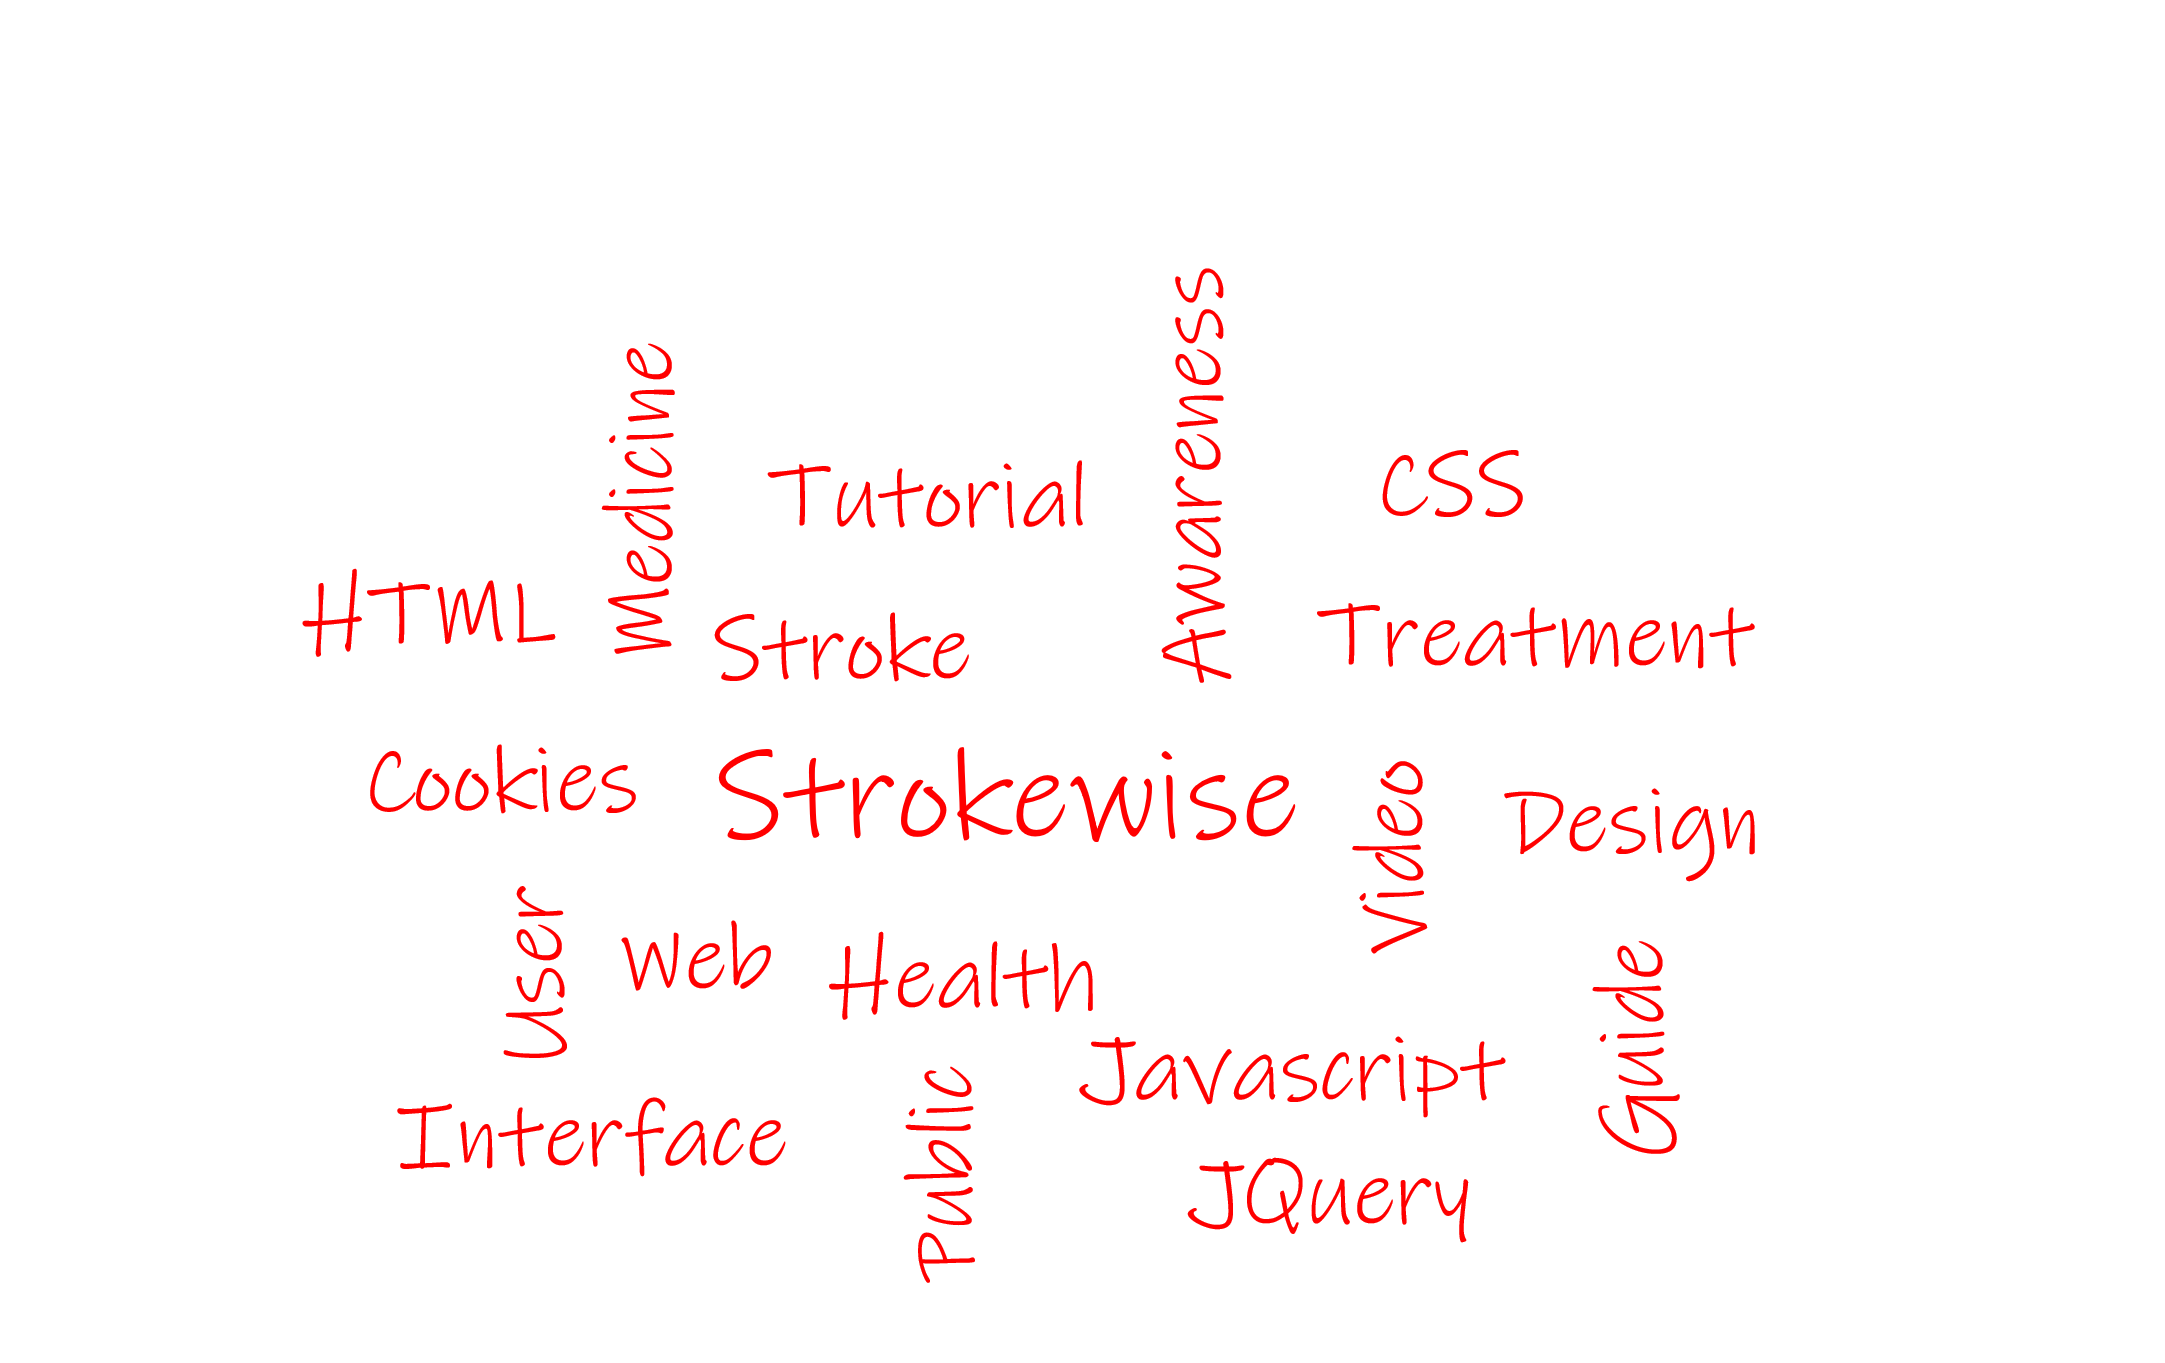
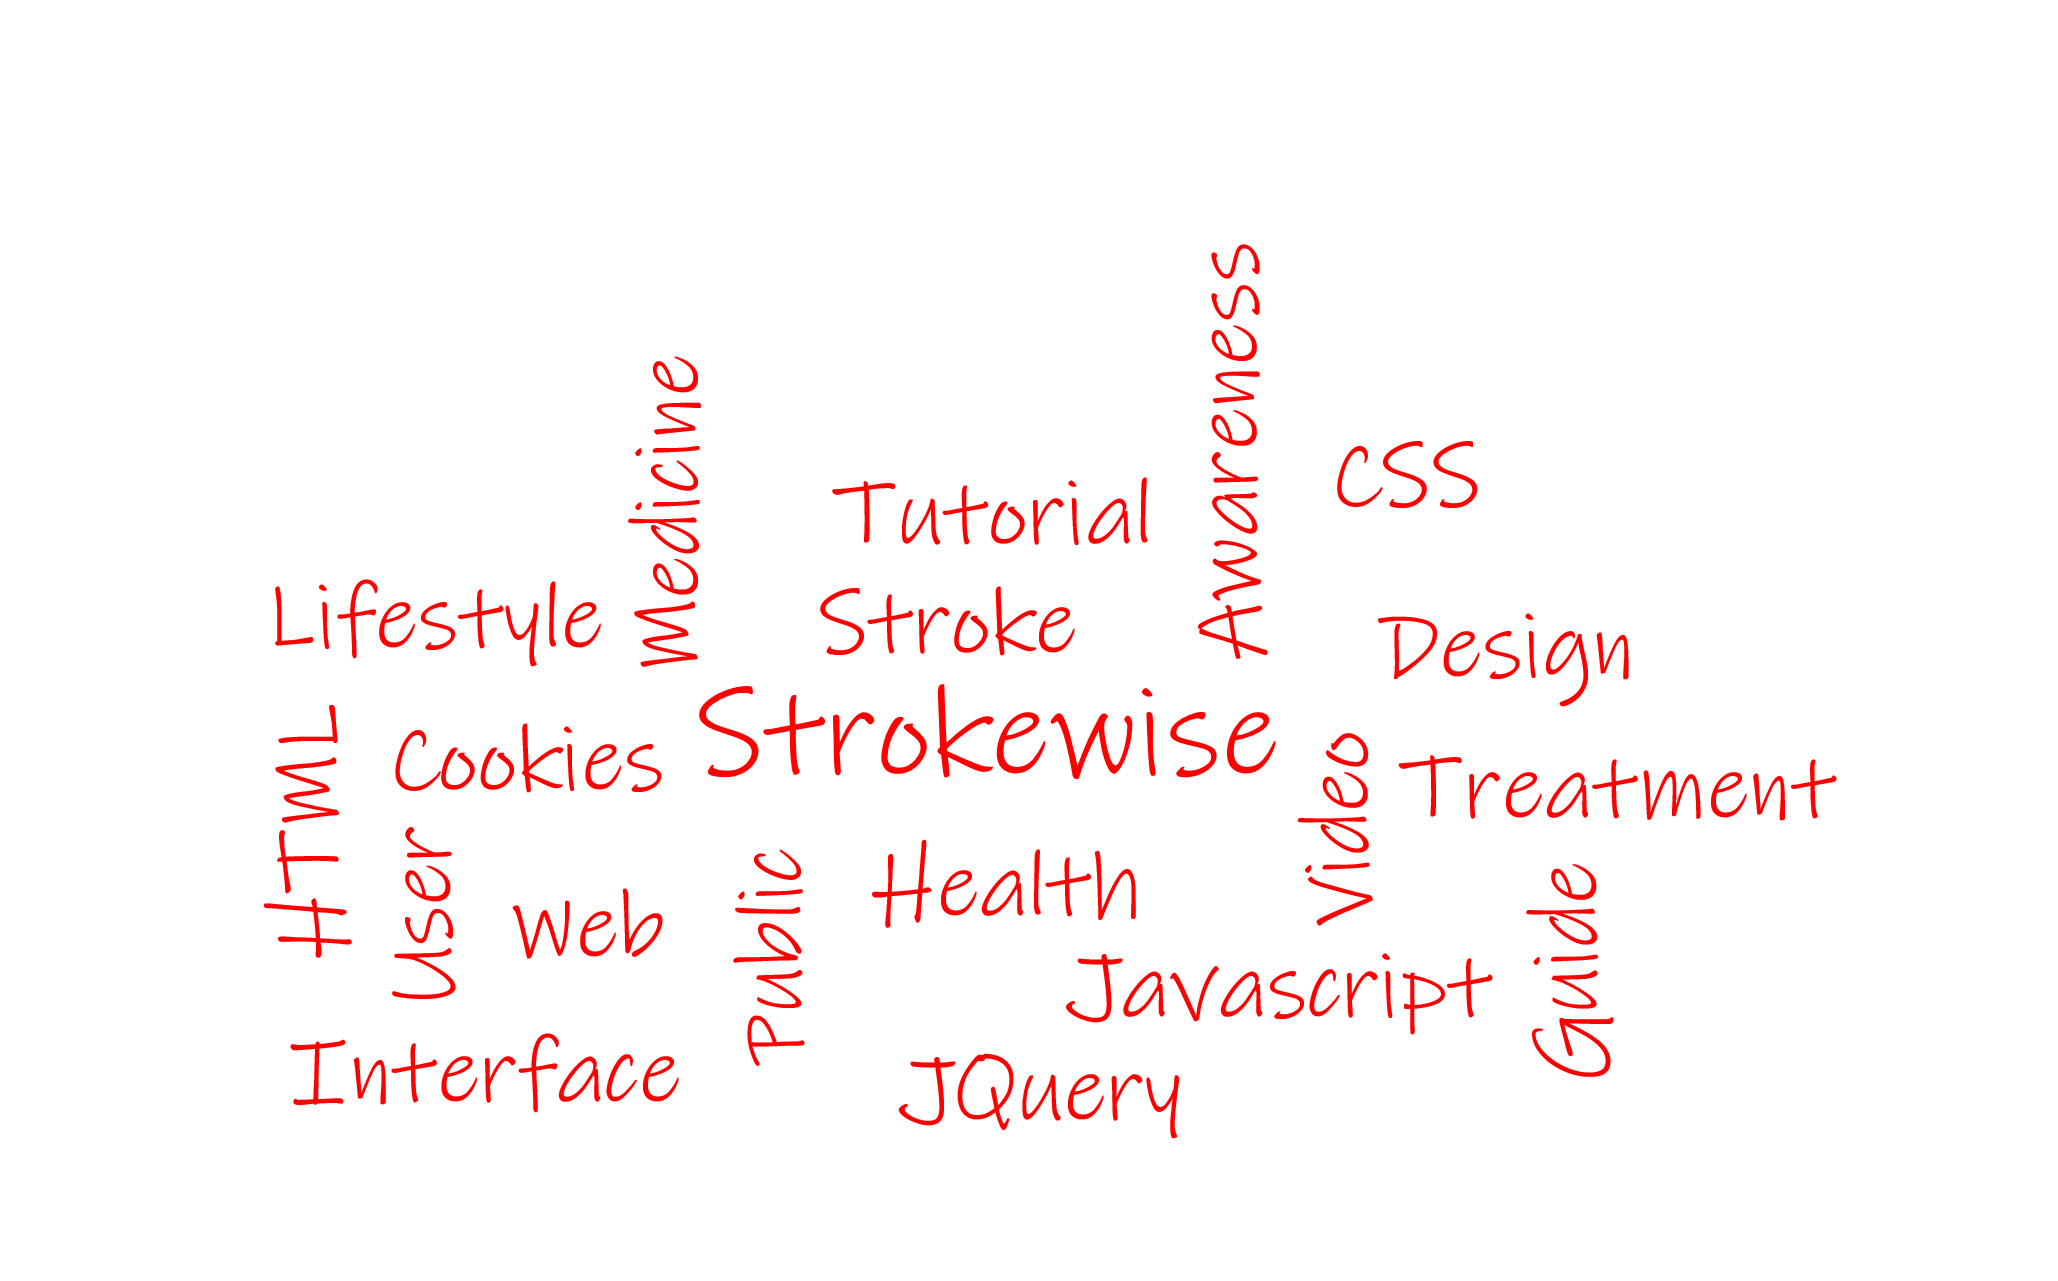
Updated index.html;

diff --git a/index.html b/index.html
@@ -21,6 +21,8 @@
 
 		<noscript><link rel="stylesheet" href="assets/css/noscript.css" /></noscript>
 		
+		<link href="https://fonts.googleapis.com/css?family=Amatic+SC|Fredericka+the+Great|Love+Ya+Like+A+Sister" rel="stylesheet">
+		
 		<script src="https://www.google.com/recaptcha/api.js"></script>
 		
 	</head>
@@ -55,7 +57,7 @@
 			<section id="intro" class="main style1 dark fullscreen" margin-top="1em">
 				<div class="content">
 					<header>
-						<font size="-1"><h2 id="hello"> </h2></font>
+						<font size="-1" style="font-family: 'Fredericka the Great', cursive;"><h2 id="hello"> </h2></font>
 					</header>
 					<font size="+3"><p id="name"> </p></font>
 					<script type="text/javascript">
